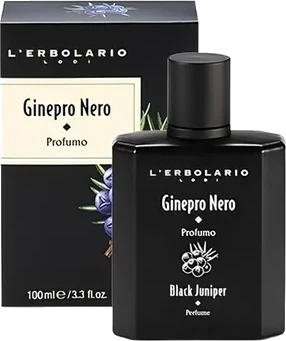
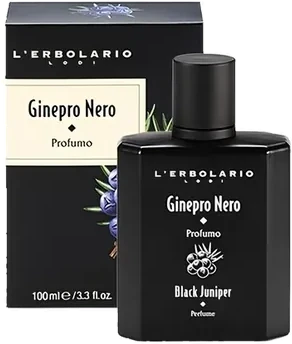
Foto delle boccette: rifatto lo scontorno di 8 foto rovinate
Nasomatto Black Afgano, Xerjoff Naxos, Lalique Ombre Noire, Armaf Club de Nuit Sillage,
Lattafa Atlas, L'Erbolario Ginepro Nero, YSL Muse e Acqua di Giò EDP perdevano pezzi di vetro
chiaro, di tappo argento o di etichetta bianca (sul tema scuro si vedevano bucate).

scontorna.py ha ora due modi: «netto» (quello di prima, rifà identiche le altre 33 foto) e
«fine» (soglia appena sopra il fondo, contorni ricuciti, bordo rifilato) per le foto chiare,
con eccezioni per foto e una maschera a mano per il vetro di Nasomatto. app/LEGGIMI.md spiega come.

diff --git a/app/strumenti/scontorna.py b/app/strumenti/scontorna.py
@@ -1,45 +1,141 @@
+"""Scontorna le foto delle boccette: dal fondo (bianco o a sfumatura) a webp con trasparenza.
+
+Uso:  python scontorna.py <cartella-originali> <cartella-uscita> [nome ...]
+      (senza nomi le rifà tutte; i nomi sono senza .webp)
+Serve: Python 3 con numpy, Pillow e opencv-python.
+
+Due modi, scelti foto per foto in FINI qui sotto:
+- «netto» (quasi tutte): è boccetta ciò che si stacca dal fondo di almeno 20 livelli su 255; il bordo diventa
+  semitrasparente in base a quanto si stacca. Bordi puliti sulle boccette scure o colorate, ma perde il vetro
+  chiaro, i tappi argento e le etichette bianche che toccano il fondo.
+- «fine» (le boccette chiare): soglia appena sopra il rumore del fondo (3 livelli), contorni ricuciti con una
+  chiusura morfologica, poi un pixel di bordo rifilato e ammorbidito. Prende il vetro chiaro, ma attorno alle
+  boccette scure lascerebbe una riga chiara (i disturbi di compressione dell'originale): per questo non è per tutte.
+In entrambi è fondo solo ciò che si raggiunge dai bordi della foto: tutto quello che sta dentro il contorno resta
+(niente buchi nelle etichette bianche). Il fondo si stima dai bordi: colore unico o sfumatura.
+La foto si ritaglia sulla boccetta senza ridimensionarla.
+"""
 import sys, os, glob
 import numpy as np
-from PIL import Image, ImageDraw, ImageFilter
-src, dst = sys.argv[1], sys.argv[2]
-T, T2 = 20, 70
-sheet = []
-for p in sorted(glob.glob(os.path.join(src, "*.webp"))):
-    im = Image.open(p).convert("RGB")
-    a = np.asarray(im).astype(np.float32)
-    b = np.concatenate([a[0], a[-1], a[:, 0], a[:, -1]])
-    bgc = np.median(b, axis=0)
-    if bgc.min() > 247: bgc = np.array([255., 255., 255.])
+import cv2
+from PIL import Image
+
+# Foto da scontornare in modo «fine», con le loro eccezioni:
+#   soglia   livelli sopra il rumore del fondo (predefinito 3)
+#   chiusura pixel per ricucire il contorno (predefinito 5)
+#   apertura pixel: toglie dal contorno le sporgenze più sottili di così (predefinito 0, nessuna)
+#   rifila   pixel tolti dal bordo (predefinito 1)
+#   mano     maschera a mano: poligoni [(x, y), ...] sulle coordinate dell'originale, sempre boccetta; si usa
+#            dove il vetro tocca il fondo bianco senza nessun contorno. Con una maschera a mano il resto viene
+#            dalla sagoma netta, non da quella fine.
+FINI = {
+    # vetro trasparente su fondo bianco: l'etichetta bianca esce dal vetro a sinistra senza contorno
+    "nasomatto-black-afgano": {"mano": [[(129, 212), (223, 212), (229, 217), (231, 222), (231, 399), (229, 401),
+                                         (119, 401), (117, 399), (117, 222), (120, 217)]]},
+    "xerjoff-naxos": {"apertura": 5}, "lalique-ombre-noire": {},
+    "armaf-cdn-sillage": {"apertura": 5}, "lattafa-atlas": {"soglia": 12, "chiusura": 9, "apertura": 7}, "erbolario-ginepro-nero": {},
+    "ysl-muse": {"apertura": 5}, "armani-acqua-di-gio-edp": {},
+}
+ALTA, T2 = 20, 70
+
+
+def fondo(a):
+    """Il colore del fondo pixel per pixel, stimato dai bordi della foto (strisce di 3 pixel)."""
+    h, w, _ = a.shape
+    yy, xx = np.mgrid[0:h, 0:w]
+    bordo = np.zeros((h, w), bool)
+    bordo[:3], bordo[-3:], bordo[:, :3], bordo[:, -3:] = True, True, True, True
+    c = a[bordo]
+    med = np.median(c, axis=0)
+    if np.abs(c - med).max(axis=1).mean() < 2.5:
+        if med.min() > 247:
+            med = np.array([255.0, 255.0, 255.0])
+        return np.broadcast_to(med, a.shape).astype(np.float32)
+    # sfumatura: parabola in x e y adattata ai bordi, canale per canale
+    x, y = xx[bordo] / w, yy[bordo] / h
+    A = np.stack([np.ones_like(x), x, y, x * y, x * x, y * y], 1)
+    X, Y = xx / w, yy / h
+    B = np.stack([np.ones_like(X), X, Y, X * Y, X * X, Y * Y], -1)
+    out = np.empty_like(a)
+    for k in range(3):
+        coef, *_ = np.linalg.lstsq(A, c[:, k], rcond=None)
+        out[..., k] = B @ coef
+    return out
+
+
+def sagoma(d, soglia, chiusura=0):
+    """Pixel che si staccano dal fondo, con i buchi interni riempiti: è fondo solo ciò che si raggiunge da fuori."""
+    cosa = (d > soglia).astype(np.uint8)
+    if chiusura:
+        cosa = cv2.morphologyEx(cosa, cv2.MORPH_CLOSE,
+                                cv2.getStructuringElement(cv2.MORPH_ELLIPSE, (chiusura, chiusura)))
+    pad = np.pad(1 - cosa, 1, constant_values=1).astype(np.uint8)
+    _, lab = cv2.connectedComponents(pad, connectivity=4)
+    obj = (lab != lab[0, 0])[1:-1, 1:-1].astype(np.uint8)
+    # togli i puntini staccati: resta tutto ciò che è almeno il 2% del pezzo più grande
+    n, lab, st, _ = cv2.connectedComponentsWithStats(obj, connectivity=8)
+    if n > 1:
+        aree = st[1:, cv2.CC_STAT_AREA]
+        tieni = np.zeros(n, bool)
+        tieni[1:] = aree >= 0.02 * aree.max()
+        obj = tieni[lab].astype(np.uint8)
+    return obj
+
+
+def scontorna(p):
+    nome = os.path.splitext(os.path.basename(p))[0]
+    a = np.asarray(Image.open(p).convert("RGB")).astype(np.float32)
+    h, w, _ = a.shape
+    bgc = fondo(a)
     d = np.abs(a - bgc).max(axis=2)
-    h, w = d.shape
-    m = Image.new("L", (w + 2, h + 2), 255)
-    m.paste(Image.fromarray(np.where(d <= T, 255, 0).astype(np.uint8)), (1, 1))
-    ImageDraw.floodfill(m, (0, 0), 128)
-    bg = np.asarray(m)[1:-1, 1:-1] == 128
-    alpha = np.where(bg, 0.0, 1.0).astype(np.float32)
-    # anello di bordo: i pixel non di fondo che toccano il fondo diventano semitrasparenti in base a quanto sono chiari
-    near = np.asarray(Image.fromarray((bg * 255).astype(np.uint8)).filter(ImageFilter.MaxFilter(5))) > 0
-    ring = near & ~bg
-    alpha[ring] = np.clip(d[ring] / T2, 0.15, 1.0)
-    # togli il bianco mescolato nel bordo
+    bordo = np.concatenate([d[:3].ravel(), d[-3:].ravel(), d[:, :3].ravel(), d[:, -3:].ravel()])
+    rumore = np.percentile(bordo, 99.5)
+    if nome in FINI:
+        r = FINI[nome]
+        if "mano" in r:
+            obj = sagoma(d, max(ALTA, rumore + 8))
+            for poli in r["mano"]:
+                cv2.fillPoly(obj, [np.array(poli, np.int32)], 1)
+        else:
+            obj = sagoma(d, rumore + r.get("soglia", 3), r.get("chiusura", 5))
+        ap = r.get("apertura", 0)
+        if ap:
+            obj = cv2.morphologyEx(obj, cv2.MORPH_OPEN, cv2.getStructuringElement(cv2.MORPH_ELLIPSE, (ap, ap)))
+        rif = r.get("rifila", 1)
+        if rif:
+            obj = cv2.erode(obj, cv2.getStructuringElement(cv2.MORPH_ELLIPSE, (2 * rif + 1, 2 * rif + 1)))
+        # bordo morbido di circa un pixel
+        alpha = cv2.GaussianBlur(obj.astype(np.float32), (0, 0), 0.6)
+        alpha[cv2.erode(obj, np.ones((3, 3), np.uint8)) > 0] = 1.0
+    else:
+        obj = sagoma(d, max(ALTA, rumore + 8))
+        fuori = obj == 0
+        alpha = obj.astype(np.float32)
+        # anello di bordo (2 pixel): semitrasparente in base a quanto si stacca dal fondo
+        vicino = cv2.dilate(fuori.astype(np.uint8), np.ones((5, 5), np.uint8)) > 0
+        anello = vicino & ~fuori
+        alpha[anello] = np.clip(d[anello] / T2, 0.15, 1.0)
+    # togli il fondo mescolato nei pixel di bordo
     al = alpha[..., None]
-    rgb = np.where(al > 0, (a - (1 - al) * bgc) / np.maximum(al, 1e-3), 0)
+    rgb = np.where(al > 0.01, (a - (1 - al) * bgc) / np.maximum(al, 1e-3), 0)
     rgb = np.clip(rgb, 0, 255)
-    out = np.dstack([rgb, alpha * 255]).astype(np.uint8)
-    o = Image.fromarray(out, "RGBA")
-    bb = Image.fromarray((alpha > 0.05).astype(np.uint8) * 255).getbbox()
-    o = o.crop(bb)
-    name = os.path.basename(p)
-    o.save(os.path.join(dst, name), "WEBP", quality=90, method=6)
-    print(name, im.size, "->", o.size, os.path.getsize(os.path.join(dst, name)))
-    sheet.append(o)
-# foglio di controllo su fondo pietra e su fondo noce
-W = sum(s.width for s in sheet) + 20 * (len(sheet) + 1)
-H = max(s.height for s in sheet) + 40
-for nome, col in (("pietra", (241, 235, 224)), ("noce", (110, 74, 46))):
-    c = Image.new("RGB", (W, H), col)
-    x = 20
-    for s in sheet:
-        c.paste(s, (x, H - 20 - s.height), s)
-        x += s.width + 20
-    c.save(os.path.join(dst, f"_foglio-{nome}.png"))
+    out = Image.fromarray(np.dstack([rgb, alpha * 255]).round().astype(np.uint8), "RGBA")
+    bb = Image.fromarray(((alpha > 0.05) * 255).astype(np.uint8)).getbbox()
+    return out.crop(bb), (w, h)
+
+
+def main():
+    src, dst = sys.argv[1], sys.argv[2]
+    nomi = sys.argv[3:]
+    os.makedirs(dst, exist_ok=True)
+    for p in sorted(glob.glob(os.path.join(src, "*.webp"))):
+        nome = os.path.basename(p)
+        if nomi and nome[:-5] not in nomi:
+            continue
+        o, dim = scontorna(p)
+        o.save(os.path.join(dst, nome), "WEBP", quality=90, method=6)
+        print(nome, dim, "->", o.size, "fine" if nome[:-5] in FINI else "netto")
+
+
+if __name__ == "__main__":
+    main()

diff --git a/app/LEGGIMI.md b/app/LEGGIMI.md
@@ -93,7 +93,7 @@ index.html               la pagina; colori della barra di stato chiaro/scuro
 vite.config.ts           Vite, React e la PWA (manifest, cache per l'uso senza rete)
 public/img/              41 boccette scontornate (webp con trasparenza) e le icone dell'app
 public/img/avvio/        le schermate d'avvio dell'iPhone, chiare e scure (fuori dalla cache del service worker)
-strumenti/scontorna.py   rifà le foto scontornate: python scontorna.py <cartella-originali> <cartella-uscita>
+strumenti/scontorna.py   rifà le foto scontornate (vedi «Le foto delle boccette»)
 strumenti/prima-dopo.mjs confronta la classifica di Consigliami tra l'app di oggi e la nuova (vedi «Prove»)
 strumenti/prova-coda.mjs prove della coda del diario (vedi «Prove»)
 strumenti/foglio-finto.mjs un Web App del foglio finto, per il ponte locale (vedi «Provarla col ponte locale»)
@@ -135,6 +135,32 @@ src/stile/               token.css (tutti i colori, chiaro e scuro), base, colle
   l'iPhone (`prefers-color-scheme`). Nessun interruttore salvato.
 - **Movimento**: chi ha chiesto meno movimento (`prefers-reduced-motion`) non vede la vetrina che si apre,
   cadute, voli, inclinazioni, riflessi, ondeggiamenti né barre che si allungano.
+
+## Le foto delle boccette
+
+Le 41 foto in `public/img/` sono scontornate (webp con trasparenza, ritagliate sulla boccetta, non
+ridimensionate) partendo da quelle col fondo dell'app di prima, in `img/` alla radice del repo, che non si
+toccano. Le rifà `strumenti/scontorna.py` (serve Python 3 con numpy, Pillow e opencv-python):
+
+```bash
+python app/strumenti/scontorna.py img app/public/img                         # tutte
+python app/strumenti/scontorna.py img app/public/img nasomatto-black-afgano  # solo alcune (nome senza .webp)
+```
+
+Due modi:
+- **netto** (quasi tutte): è boccetta ciò che si stacca dal bianco di almeno 20 livelli su 255, con un bordo
+  semitrasparente. Pulito sulle boccette scure o colorate, ma perde vetro chiaro, tappi argento ed etichette
+  bianche che toccano il fondo.
+- **fine** (le foto elencate in `FINI` nello script, con le loro eccezioni): soglia appena sopra il rumore del
+  fondo e contorni ricuciti, poi un pixel di bordo rifilato. Prende il vetro chiaro; non va bene per tutte perché
+  attorno alle boccette scure lascerebbe una riga chiara (disturbi di compressione dell'originale). Dove il vetro
+  tocca il bianco senza nessun contorno (Nasomatto Black Afgano) c'è una **maschera a mano**: un poligono sulle
+  coordinate dell'originale, preso dai bordi del vetro, senza inventare parti.
+
+Rifare tutte le foto lascia identiche quelle in modo netto. Dopo ogni cambio, guardarle a occhio su fondo chiaro
+e scuro (Collezione, Scheda, vista da vicino), in tema chiaro e scuro. Il 2026-11-14 sono state rifatte in modo
+fine Nasomatto Black Afgano, Xerjoff Naxos, Lalique Ombre Noire, Armaf Club de Nuit Sillage, Lattafa Atlas,
+L'Erbolario Ginepro Nero, YSL Muse e Acqua di Giò EDP.
 
 ## Dati
 
